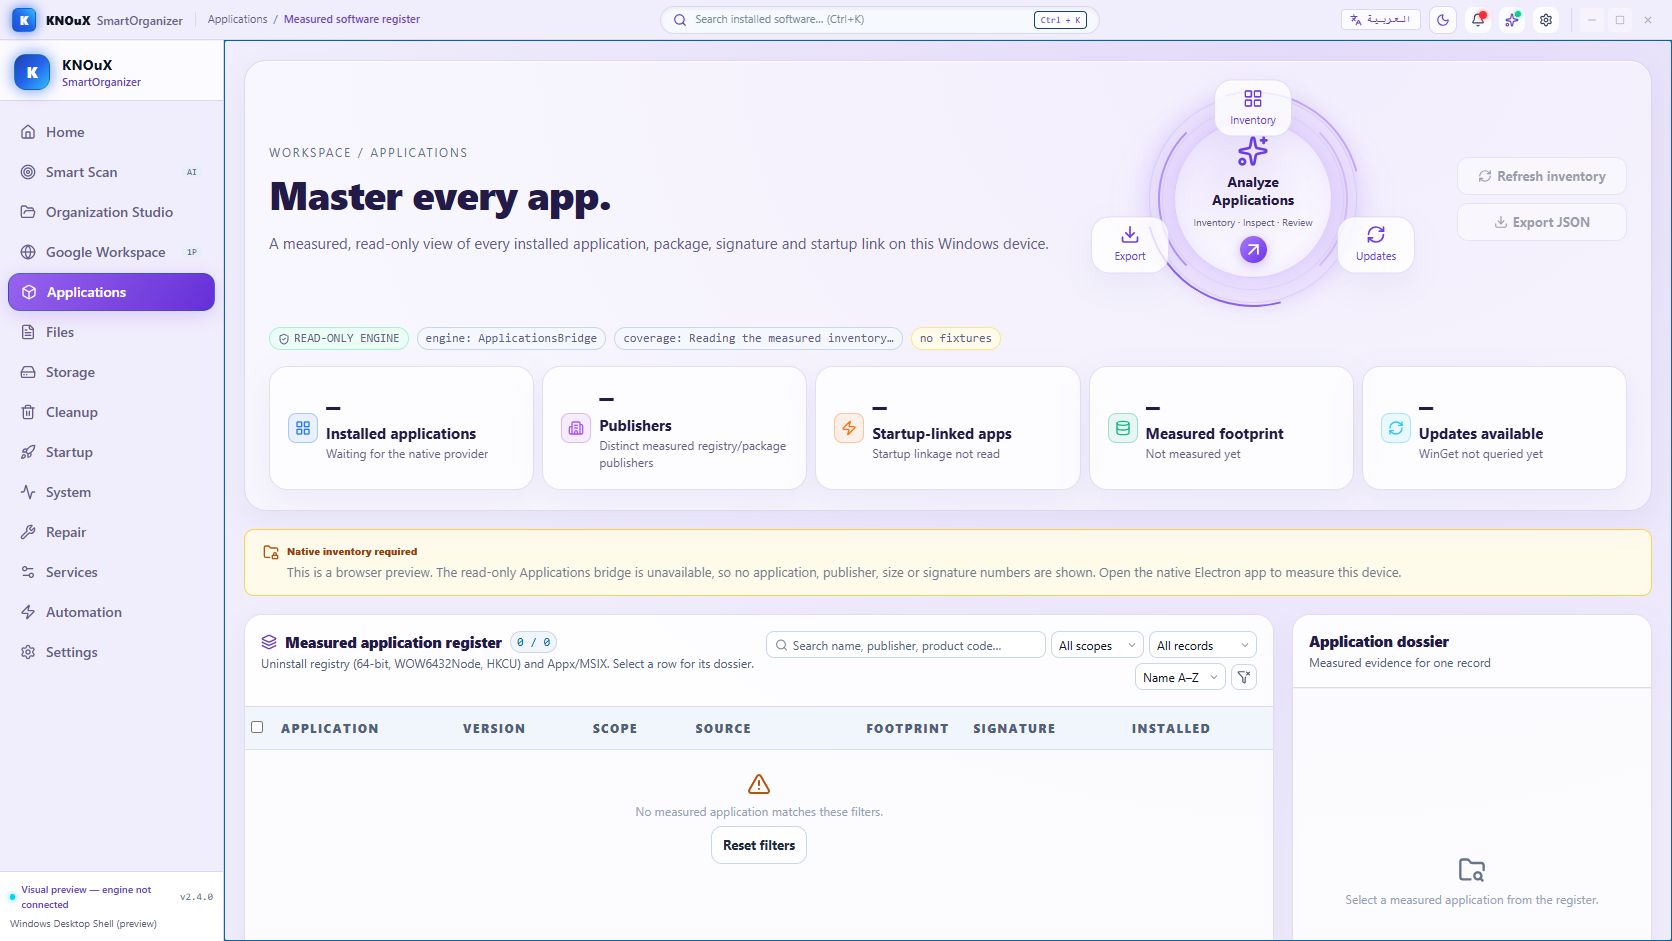
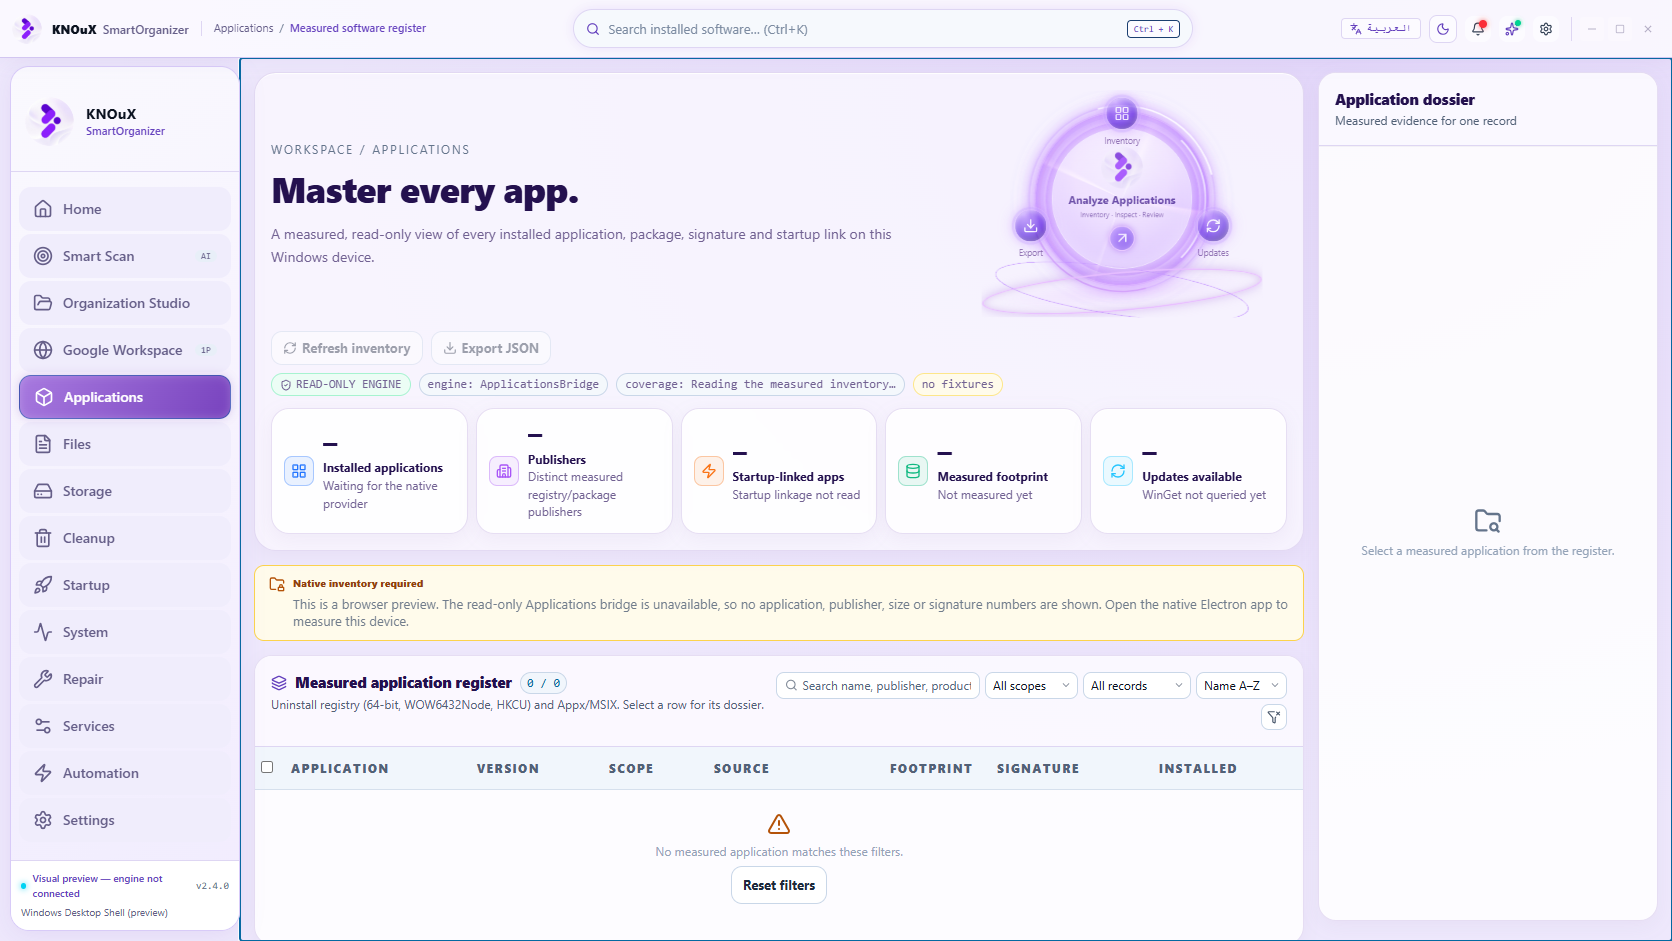
feat(visual): pin application dossier and balance the software workspace

diff --git a/apps/gemini-ui/src/visual/apps-reference.css b/apps/gemini-ui/src/visual/apps-reference.css
@@ -1,0 +1,26 @@
+.visual-sprint[data-visual-section='applications'] .apps-main { display:grid; grid-template-columns:minmax(0,1fr) 340px; align-content:start; gap:14px; padding:14px; }
+.visual-sprint[data-visual-section='applications'] .apps-main > * { grid-column:1; min-width:0; }
+.visual-sprint[data-visual-section='applications'] .apps-main { grid-auto-rows:max-content; }
+.visual-sprint[data-visual-section='applications'] .apps-hero { height:max-content !important; }
+.visual-sprint[data-visual-section='applications'] .apps-services { min-height:230px; height:max-content; }
+.visual-sprint[data-visual-section='applications'] .apps-hero { padding:16px !important; }
+.visual-sprint[data-visual-section='applications'] .knx-apps-hero-layout { position:relative; grid-template-columns:minmax(0,1fr) 330px; gap:12px; min-height:270px; }
+.visual-sprint[data-visual-section='applications'] .knx-apps-hero-layout > .knx-orbit { transform:scale(.78); margin:-30px -15px; }
+.visual-sprint[data-visual-section='applications'] .knx-apps-hero-actions { grid-column:1/-1; justify-content:flex-start; }
+.visual-sprint[data-visual-section='applications'] .knx-apps-hero-actions button { width:auto; min-height:34px; }
+.visual-sprint[data-visual-section='applications'] .apps-hero-meta { margin:8px 0 12px; }
+.visual-sprint[data-visual-section='applications'] .apps-hero-title { font-size:36px !important; }
+.visual-sprint[data-visual-section='applications'] .apps-hero-copy { font-size:14px !important; }
+.visual-sprint[data-visual-section='applications'] .apps-kpi-card { padding:12px; min-height:90px; gap:9px; }
+.visual-sprint[data-visual-section='applications'] .apps-kpi-label { font-size:12px !important; }
+.visual-sprint[data-visual-section='applications'] .apps-work-grid { display:contents; }
+.visual-sprint[data-visual-section='applications'] .apps-register { grid-column:1; min-height:290px; max-height:420px; }
+.visual-sprint[data-visual-section='applications'] .apps-dossier { grid-column:2; grid-row:1/span 5; height:calc(100vh - 92px); position:sticky; top:0; align-self:start; background:var(--v-panel) !important; }
+.visual-sprint[data-visual-section='applications'] .apps-service-grid { grid-auto-flow:column; grid-auto-columns:155px; grid-template-columns:none !important; overflow-x:auto; padding:12px; gap:10px; }
+.visual-sprint[data-visual-section='applications'] .apps-service-card { min-height:128px; flex-direction:column; gap:9px; padding:14px !important; }
+.visual-sprint[data-visual-section='applications'] .apps-service-title { font-size:13px !important; }
+.visual-sprint[data-visual-section='applications'] .apps-service-sub { font-size:12px !important; }
+.visual-sprint[data-visual-section='applications'] .apps-native-banner { padding:10px 14px; }
+.visual-sprint[data-visual-section='applications'] .apps-foot-strip { grid-column:1/-1; }
+@media (max-width:1370px) { .visual-sprint[data-visual-section='applications'] .apps-main { grid-template-columns:minmax(0,1fr) 300px; }.visual-sprint[data-visual-section='applications'] .knx-apps-hero-layout { grid-template-columns:1fr; min-height:0; }.visual-sprint[data-visual-section='applications'] .knx-apps-hero-layout > .knx-orbit { display:none; }.visual-sprint[data-visual-section='applications'] .apps-kpi-grid { grid-template-columns:repeat(3,minmax(0,1fr)); } }
+@media (max-width:1050px) { .visual-sprint[data-visual-section='applications'] .apps-main { display:flex; }.visual-sprint[data-visual-section='applications'] .apps-work-grid { display:flex; flex-direction:column; }.visual-sprint[data-visual-section='applications'] .apps-dossier { position:static; height:540px; } }

diff --git a/apps/gemini-ui/src/App.tsx b/apps/gemini-ui/src/App.tsx
@@ -48,6 +48,7 @@ import './visual/reference-controls.css';
 import './visual/files-reference.css';
 import './visual/reference-polish.css';
 import './visual/scan-reference.css';
+import './visual/apps-reference.css';
 import { CinematicEntry } from './features/cinematic-entry/CinematicEntry';
 
 export type { AppSection } from './context/NavigationContext';
@@ -119,7 +120,7 @@ function AppContent() {
 
   return (
     <>
-      <div className="visual-sprint" data-visual-section={currentSection} data-reference-shell={['studio', 'files', 'smart_scan'].includes(currentSection)}>{renderActiveWorkspace()}</div>
+      <div className="visual-sprint" data-visual-section={currentSection} data-reference-shell={['studio', 'files', 'smart_scan', 'applications'].includes(currentSection)}>{renderActiveWorkspace()}</div>
       <KNOuXAssistantChat currentSection={currentSection} locale={isAr ? 'ar' : 'en'} />
       <ApiKeySetupModal
         isOpen={isApiKeyModalOpen}
